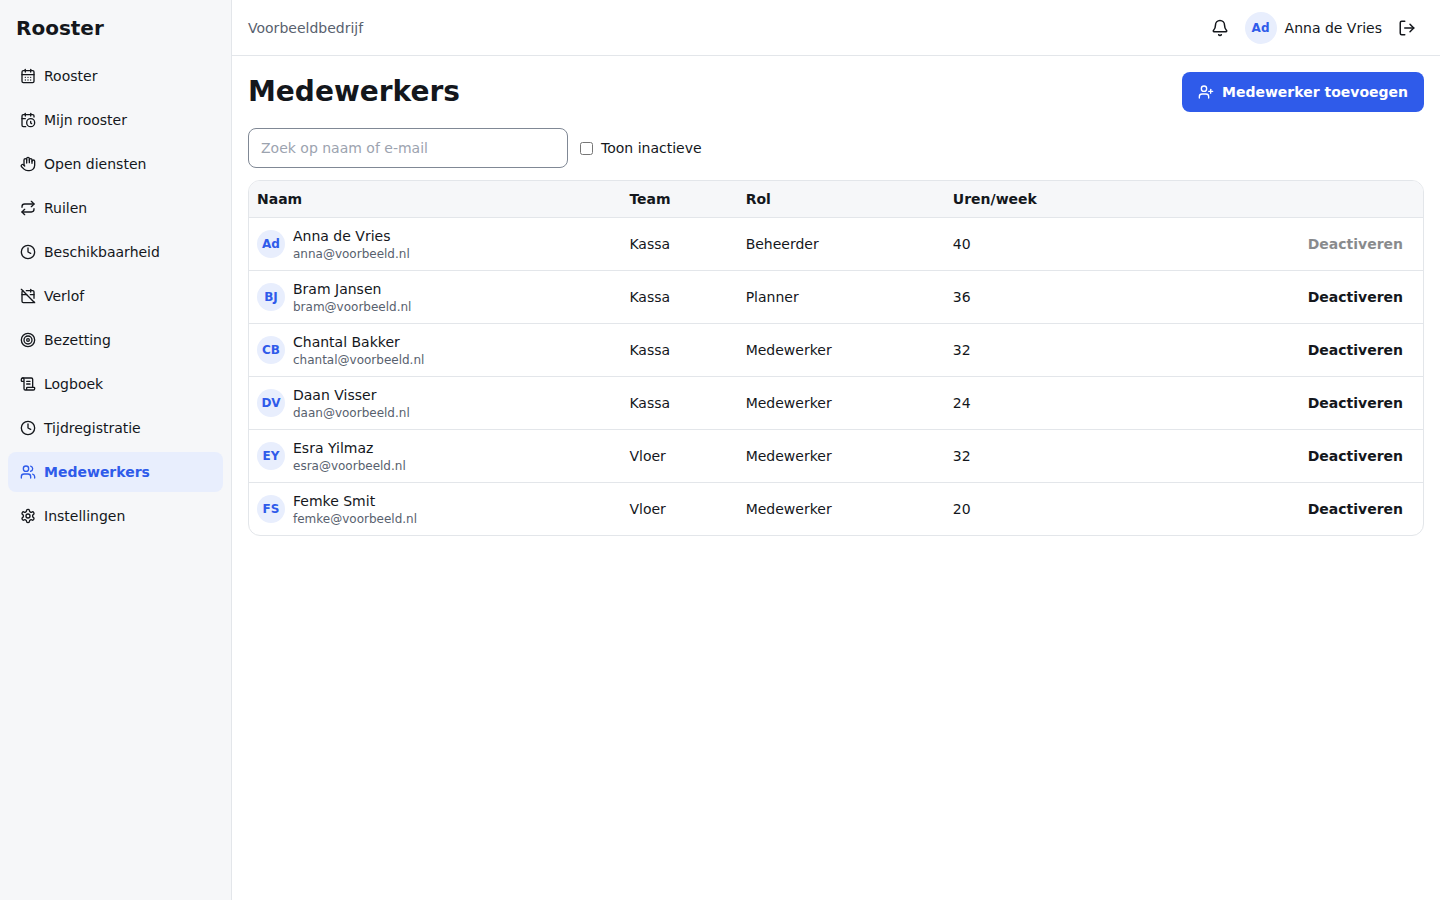
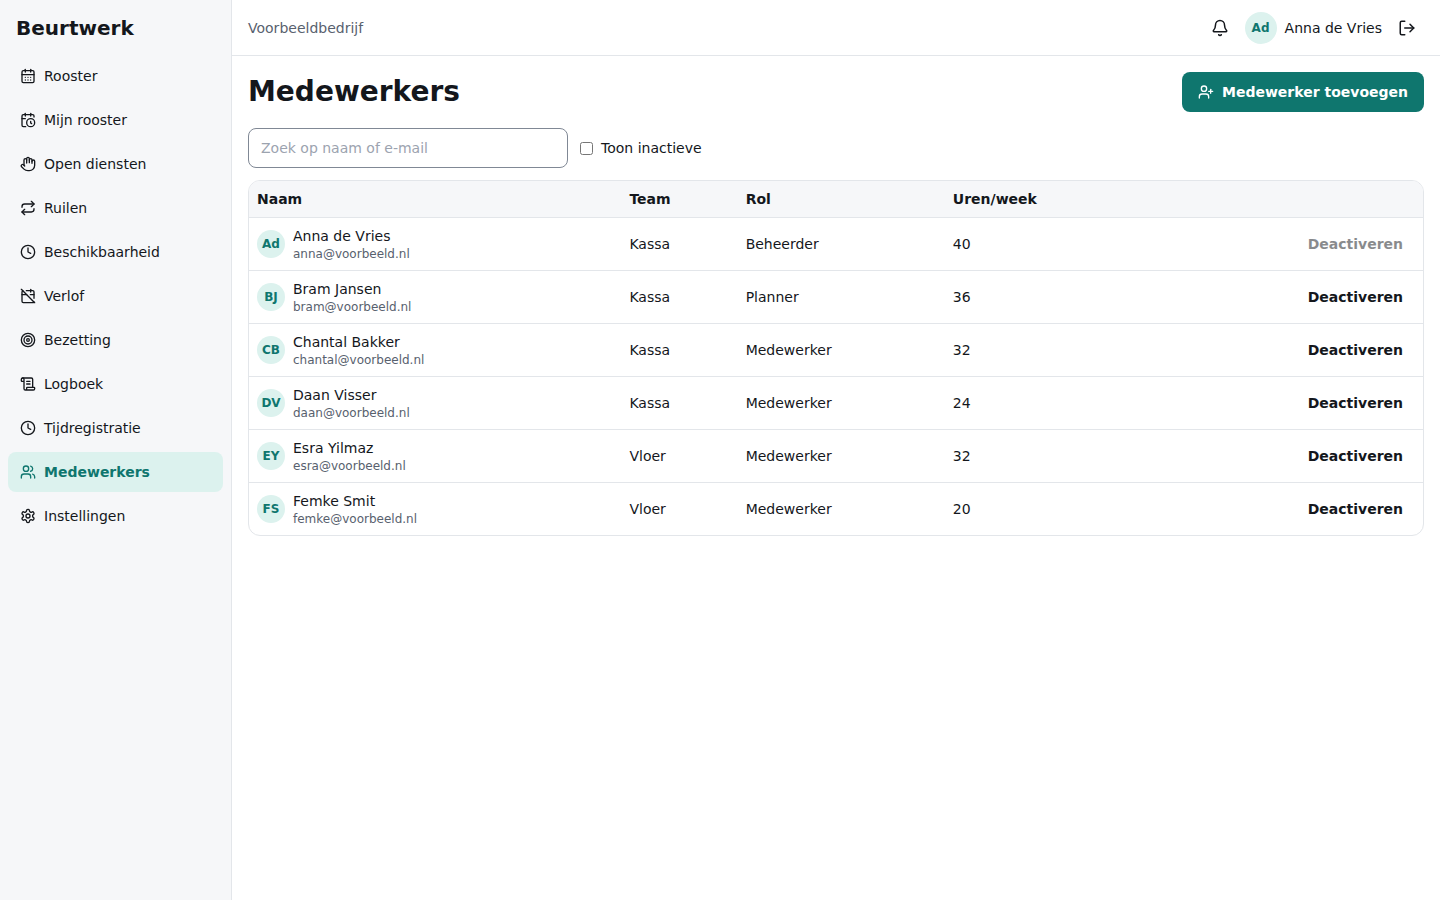
brand: working name Beurtwerk, teal palette, brand.json, voice, sweep clean
Claude-Session: https://claude.ai/code/session_0165Tx877Q4Yp9c9EitCyigK

Changed region(s): [[0.8125, 0.0622, 1.0, 0.1244], [0.0312, 0.0, 0.0938, 0.0622], [0.0312, 0.4978, 0.0938, 0.5289]]

diff --git a/src/components/shell.tsx b/src/components/shell.tsx
@@ -4,6 +4,7 @@ import { usePathname, useRouter } from 'next/navigation';
 import { useEffect, type ReactNode } from 'react';
 import { Bell, CalendarDays, CalendarOff, Clock, Home, LogOut, Repeat, Settings, Users, Hand, Target, CalendarClock, ScrollText } from 'lucide-react';
 import { useSession } from '@/lib/session';
+import { BRAND } from '@/lib/brand';
 import { useStore } from '@/lib/store';
 import { hasPermAnywhere } from '@/lib/domain';
 import type { Perm } from '@/lib/types';
@@ -56,12 +57,12 @@ export function AppShell({ children }: { children: ReactNode }) {
     <div className="min-h-screen md:grid print:block md:grid-cols-[var(--layout-sidebar)_1fr]">
       <a href="#inhoud" className="sr-only focus:not-sr-only focus:fixed focus:left-2 focus:top-2 focus:z-50 focus:rounded-md focus:bg-bg focus:px-3 focus:py-2">Naar inhoud</a>
       <aside className="hidden print:hidden border-r border-border bg-surface md:flex md:flex-col">
-        <div className="flex h-[var(--layout-header)] items-center px-4 text-lg font-bold">Rooster</div>
+        <div className="flex h-[var(--layout-header)] items-center px-4 text-lg font-bold">{BRAND.name}</div>
         <nav aria-label="Hoofdmenu" className="flex flex-1 flex-col gap-1 px-2">{items.map((n) => link(n))}</nav>
       </aside>
       <div className="flex min-w-0 flex-col pb-16 md:pb-0">
         <header className="flex print:hidden h-[var(--layout-header)] items-center justify-between gap-2 border-b border-border px-4">
-          <span className="font-bold md:hidden">Rooster</span>
+          <span className="font-bold md:hidden">{BRAND.name}</span>
           <span className="hidden text-text-muted md:inline">{state.orgName}</span>
           <div className="flex items-center gap-2">
             <Link href="/meldingen" aria-label={unread ? `Meldingen, ${unread} ongelezen` : 'Meldingen'} className="relative rounded-md p-2 hover:bg-surface-sunken">

diff --git a/src/app/login/page.tsx b/src/app/login/page.tsx
@@ -2,6 +2,7 @@
 import { useRouter } from 'next/navigation';
 import { useStore, resetState } from '@/lib/store';
 import { useSession } from '@/lib/session';
+import { BRAND } from '@/lib/brand';
 import { Avatar, Button, Banner } from '@/components/ui';
 
 export default function Login() {
@@ -10,8 +11,9 @@ export default function Login() {
   const router = useRouter();
   return (
     <main className="mx-auto flex min-h-screen max-w-md flex-col justify-center gap-4 p-4">
-      <h1 className="text-xl font-bold">Rooster</h1>
-      <Banner kind="info">Dit is een demo met voorbeeldgegevens in je browser. Kies wie je wilt zijn om de verschillende rechten te zien.</Banner>
+      <h1 className="text-xl font-bold">{BRAND.name}</h1>
+      <p className="text-text-muted">{BRAND.tagline}</p>
+      <Banner kind="info">Dit is een demo met voorbeeldgegevens in je browser. Kies een persoon om te zien wat die wel en niet kan.</Banner>
       <ul className="flex flex-col gap-2">
         {state.employees.filter((e) => e.active).map((e) => {
           const group = state.groups.find((g) => g.id === Object.values(e.groupByDept)[0])?.name;

diff --git a/src/lib/seed.ts b/src/lib/seed.ts
@@ -49,7 +49,7 @@ export function makeSeed(today = todayStr()): State {
       { id: 'd2', name: 'Magazijn', locationName: 'Hoofdvestiging', timezone: 'Europe/Amsterdam', publishDaysAhead: null, openShiftNeedsApproval: false },
     ],
     teams: [
-      { id: 't1', departmentId: 'd1', name: 'Kassa', kind: 'default', colour: '#2f5bea' },
+      { id: 't1', departmentId: 'd1', name: 'Kassa', kind: 'default', colour: '#0f766e' },
       { id: 't2', departmentId: 'd1', name: 'Vloer', kind: 'default', colour: '#1a7045' },
       { id: 't3', departmentId: 'd2', name: 'Inslag', kind: 'default', colour: '#8a5300' },
     ],
@@ -64,7 +64,7 @@ export function makeSeed(today = todayStr()): State {
     published: { d1: [], d2: [] },
     availability: [],
     absenceTypes: [
-      { id: 'at1', name: 'Vakantie', balanceId: 'b1', colour: '#2f5bea' },
+      { id: 'at1', name: 'Vakantie', balanceId: 'b1', colour: '#0f766e' },
       { id: 'at2', name: 'Ziek', balanceId: null, colour: '#b42a2a' },
       { id: 'at3', name: 'Bijzonder verlof', balanceId: null, colour: '#8a5300' },
     ],

diff --git a/src/app/layout.tsx b/src/app/layout.tsx
@@ -1,9 +1,10 @@
 import type { Metadata, Viewport } from 'next';
 import type { ReactNode } from 'react';
 import '../styles/globals.css';
+import { BRAND } from '@/lib/brand';
 import { Providers } from '@/components/providers';
 
-export const metadata: Metadata = { title: 'Rooster', description: 'Roosters, beschikbaarheid en verlof voor je team' };
+export const metadata: Metadata = { title: BRAND.name, description: BRAND.tagline };
 export const viewport: Viewport = { width: 'device-width', initialScale: 1 };
 
 export default function RootLayout({ children }: { children: ReactNode }) {

diff --git a/replica/design/tokens.css b/replica/design/tokens.css
@@ -6,8 +6,8 @@
   --color-border-input: #808895;
   --color-text: #14171c;
   --color-text-muted: #58616e;
-  --color-accent: #2f5bea;
-  --color-accent-soft: #e8eefd;
+  --color-accent: #0f766e;
+  --color-accent-soft: #dcf2ee;
   --color-on-accent: #ffffff;
   --color-danger: #b42a2a;
   --color-danger-soft: #fdeaea;
@@ -15,7 +15,7 @@
   --color-success-soft: #e3f4ea;
   --color-warning: #8a5300;
   --color-warning-soft: #fdf1db;
-  --color-focus-ring: #2f5bea;
+  --color-focus-ring: #0f766e;
   --color-avail-yes: #dff3e6;
   --color-avail-no: #e4e7eb;
   --color-shift-1: #dbe7ff;

diff --git a/src/styles/tokens.css b/src/styles/tokens.css
@@ -6,8 +6,8 @@
   --color-border-input: #808895;
   --color-text: #14171c;
   --color-text-muted: #58616e;
-  --color-accent: #2f5bea;
-  --color-accent-soft: #e8eefd;
+  --color-accent: #0f766e;
+  --color-accent-soft: #dcf2ee;
   --color-on-accent: #ffffff;
   --color-danger: #b42a2a;
   --color-danger-soft: #fdeaea;
@@ -15,7 +15,7 @@
   --color-success-soft: #e3f4ea;
   --color-warning: #8a5300;
   --color-warning-soft: #fdf1db;
-  --color-focus-ring: #2f5bea;
+  --color-focus-ring: #0f766e;
   --color-avail-yes: #dff3e6;
   --color-avail-no: #e4e7eb;
   --color-shift-1: #dbe7ff;

diff --git a/src/lib/brand.ts b/src/lib/brand.ts
@@ -1,0 +1,5 @@
+/** One place for the product name, so a rename is a one-line change. Working name: see replica/brand.md. */
+export const BRAND = {
+  name: 'Beurtwerk',
+  tagline: 'Rooster, beschikbaarheid en verlof voor je team',
+} as const;

diff --git a/replica/brand.md b/replica/brand.md
@@ -1,0 +1,75 @@
+# Brand
+
+Status: **working name, not cleared.** Naming is the owner's decision and a trademark lawyer's check. Nothing here is legal clearance.
+
+## Name
+
+Angle (from `fixes.md`, provisional): a rota tool for a chosen niche, with a change log for trust. The name should be Dutch-friendly, short, and say "turns / shifts of work" without echoing the original.
+
+Dropped on sight: anything with "shift" or "base" (too close to the original), "-ly" twins, and "Rooster…" names: the Dutch market is full of them (search 2026-10-03 found Roosterplaats, Roosterplan, MyRooster, TopRooster, MijnShift, Bedrijfsrooster). The previous placeholder "Rooster" is a plain noun and crowded, so it cannot be the brand.
+
+| candidate | style | note |
+| --- | --- | --- |
+| **Beurtwerk** (recommended) | compound, Dutch ("beurt" = turn, "werk" = work) | one search for "Beurtwerk" + roster software 2026-10-03: no product by that name in the first 10 results (not a clearance) |
+| Wisselwacht | compound ("wissel" = change/swap, "wacht" = watch/shift) | same search: no hits; slightly long, "wacht" suggests security/care, good for a care niche |
+| Ploegplan | descriptive | a common Dutch term (ploegendienst, also sport tactics): weak as a mark, hard to own |
+| Kwartier | metaphor | short, but unrelated to rotas; unclear meaning |
+| Roosterwerk | descriptive | crowded "Rooster" family: rejected |
+
+### Checks (state each as run or to run)
+
+| check | Beurtwerk | Wisselwacht |
+| --- | --- | --- |
+| web search "name + category" | run 2026-10-03: nothing found | run 2026-10-03: nothing found |
+| BOIP / Benelux trademark register (boip.int) | **to run** | **to run** |
+| EU trademark (EUIPO eSearch / TMview) | **to run** | **to run** |
+| US trademark (tmsearch.uspto.gov, classes 9, 42) | **to run** | **to run** |
+| WIPO Global Brand Database | **to run** | **to run** |
+| domains (.nl, .com, .app) | **to run**: no WHOIS tool here; a DNS lookup returned nothing but is not proof | **to run** |
+| App Store / Google Play name search | **to run** (stores blocked here) | **to run** |
+| handles (X, Instagram, TikTok, GitHub, LinkedIn) | **to run** | **to run** |
+
+Before paying for a domain or logo: a trademark lawyer's proper search in the Benelux and EU.
+
+## Palette
+
+Deep teal accent `#0f766e` (was a placeholder blue). The original's brand colour was never recorded during recon (no screenshots), so `brand.json` `colors` is empty: the sweep cannot catch it by value. Use the owner's own account to check that no screen shares the original's signature colour pair.
+
+| role | value | note |
+| --- | --- | --- |
+| accent | `#0f766e` | 5.47:1 on white |
+| accent-soft | `#dcf2ee` | backgrounds, selected rows |
+| on-accent | `#ffffff` | 5.47:1 on accent |
+| focus-ring | `#0f766e` | 5.47:1 on white (needs 3) |
+
+Contrast check: `python3 .claude/skills/replica-design/contrast.py replica/design/tokens.json` → 27 pairs, 0 failing AA. The eight shift colours are functional (they tell shift types apart) and stay.
+
+## Logo brief
+
+- Idea: turns that interlock. Two or three stacked bars of different lengths (a rota seen from the side) forming a "B", or a single bar with a small step in it.
+- Type: symbol plus wordmark. Wordmark in a friendly geometric sans, lower case "beurtwerk".
+- Must hold up at 16px (favicon: bars only, no text) and as a 1024px app icon.
+- Deliverables: SVG master (one colour and reversed), app icon 1024x1024 with no transparency (iOS), favicon set (SVG, 32, 180 touch), social image 1200x630.
+- Must not resemble the original's mark: no shared shape, colour pair or letterform trick. Put their logo next to every draft before choosing. (The current `src/app/icon.svg` is a placeholder of three bars on the accent colour, drawn here, not a final logo.)
+
+## Voice
+
+Three words:
+
+- **Helder** (clear): says what will happen. Not blunt: no jargon, but also no cold orders.
+- **Rustig** (calm): even when something is wrong. Not sleepy: still points to the next step.
+- **Collegiaal** (like a colleague): "je", never "u", plain words. Not jokey: no emoji in errors, no exclamation marks.
+
+| do | don't |
+| --- | --- |
+| "Je hebt geen rechten om de instellingen te beheren." | "Toegang geweigerd." |
+| "Saldo te laag: 12 beschikbaar, 40 gevraagd" | "Fout: onvoldoende saldo!" |
+| "Er is al een ruilverzoek voor deze dienst." | "Kan niet. Er loopt al een ruil." |
+| "Nog niets gepubliceerd. Zodra je planner het rooster publiceert, zie je hier je diensten." | "Geen data." |
+| "Je kunt de dienst toch opslaan." | "Waarschuwing negeren?" |
+
+The ten most-seen strings were written fresh for this product in Dutch (none taken from the original): sign-in heading and demo note, schedule title and hint, "Dienst toevoegen", the save/confirm toasts ("Dienst toegevoegd", "Dienst opgeslagen"), the conflict banner, empty states (schedule, open shifts, notifications), the publish dialog, the absence form errors, and the email subjects (`src/lib/server/email.ts`). They already follow the voice. Re-read them once with a native speaker.
+
+## Sweep
+
+`python3 .claude/skills/replica-brand/sweep.py . --config replica/brand.json` → clean (names, domains). By-eye checks still open: favicon (placeholder), page titles (now from `src/lib/brand.ts`), email templates (use the name only through `BRAND`), the Open Graph image (does not exist yet), app icon (none yet).
